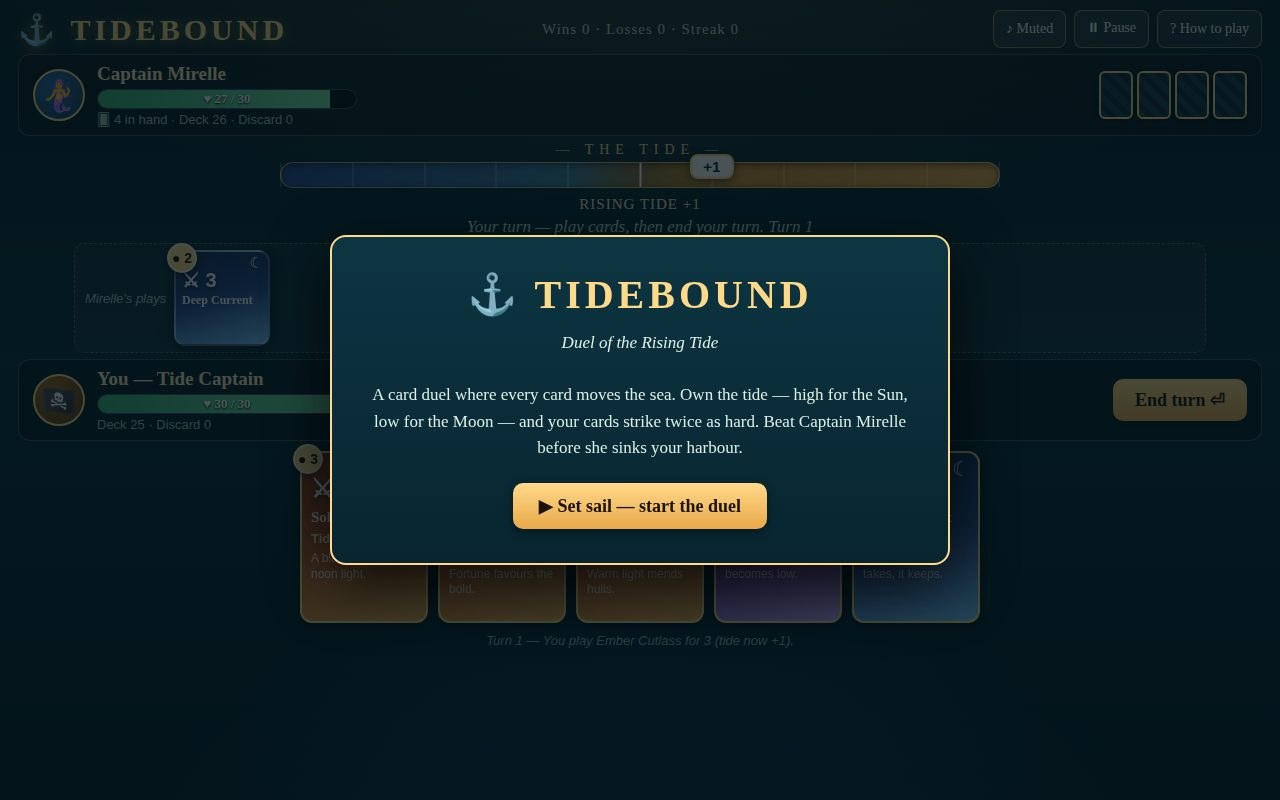
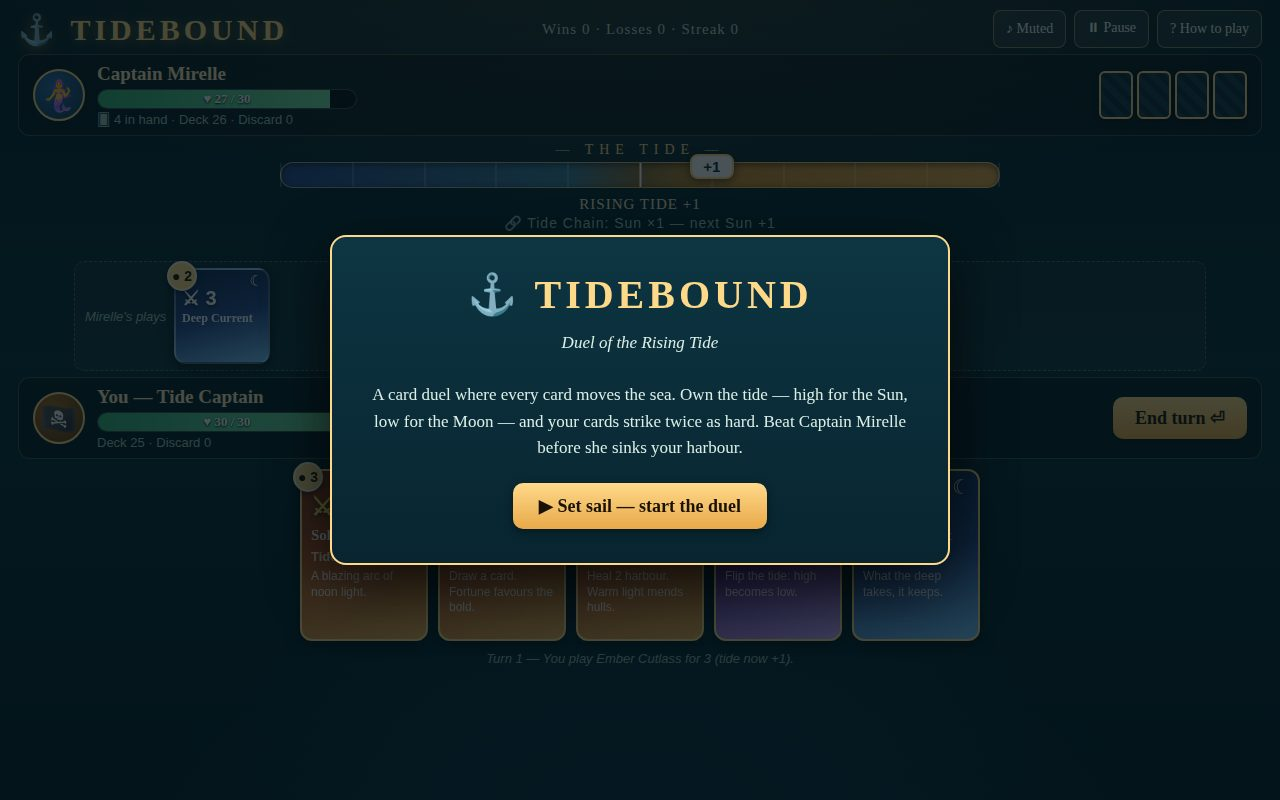
Tide Chain: consecutive same-element plays build momentum (+1/link, max +2)
Calibrated vs rival Ember Court (Favour/suits not copied): our depth
answer is tide-native — chains stack with the tide bonus, the AI scores
them, the table shows the live chain and every hand card previews its
chained power. Played cards now show the power they actually struck
with. Self-play check raised to 40 full games (was 30).

diff --git a/game/src/view.js b/game/src/view.js
@@ -8,7 +8,7 @@
 // in a deep-sea palette with gold trim and a tide gauge you can read
 // from across the room.
 
-import { cardDef, effectivePower } from './cards.js';
+import { cardDef, effectivePower, ELEMENTS } from './cards.js';
 import { tideLabel } from './tide.js';
 import { snapshot } from './engine.js';
 import { sfx, setMuted, isMuted } from './audio.js';
@@ -29,10 +29,13 @@ function tideArrow(push) {
 }
 
 // One card face. `playable` marks cards the player may click right now;
-// `spotlight` is the staged-screenshot highlight.
-export function cardNode(id, tide, { playable = false, spotlight = false, small = false } = {}) {
+// `spotlight` is the staged-screenshot highlight. `powerOverride` shows
+// the power a played card actually struck with (tide + chain at the
+// moment it was played); otherwise the power is the live value on the
+// current tide and chain, so the hand previews what a card would hit for.
+export function cardNode(id, tide, { playable = false, spotlight = false, small = false, powerOverride = null, chain = null } = {}) {
   const def = cardDef(id);
-  const power = effectivePower(def, tide);
+  const power = powerOverride !== null ? powerOverride : effectivePower(def, tide, chain);
   const boosted = power > def.power;
   const card = el('div', `card el-${def.element}${playable ? ' playable' : ''}${spotlight ? ' spotlight' : ''}${small ? ' small' : ''}`);
   card.dataset.cardId = id;
@@ -118,6 +121,8 @@ export class View {
     gauge.appendChild(this.gaugeBar);
     this.gaugeLabel = el('div', 'gauge-label', '');
     gauge.appendChild(this.gaugeLabel);
+    this.chainNode = el('div', 'chain-line', '');
+    gauge.appendChild(this.chainNode);
     middle.appendChild(gauge);
 
     this.banner = el('div', 'banner', '');
@@ -188,6 +193,12 @@ export class View {
     this.gaugeMarker.style.left = `${pct}%`;
     this.gaugeMarker.textContent = snap.tide >= 0 ? `+${snap.tide}` : `${snap.tide}`;
     this.gaugeLabel.textContent = tideLabel(snap.tide);
+    if (snap.chain && snap.chain.count > 0) {
+      const label = ELEMENTS[snap.chain.element].label;
+      this.chainNode.textContent = `🔗 Tide Chain: ${label} ×${snap.chain.count} — next ${label} +${Math.min(snap.chain.count, 2)}`;
+    } else {
+      this.chainNode.textContent = '🔗 Tide Chain: — play two of one element in a row to build it';
+    }
 
     // Banner
     if (snap.phase === 'over') {
@@ -201,7 +212,7 @@ export class View {
     // Played cards
     const fillPlayed = (node, plays) => {
       node.querySelectorAll('.card').forEach((c) => c.remove());
-      for (const p of plays) node.appendChild(cardNode(p.id, snap.tide, { small: true }));
+      for (const p of plays) node.appendChild(cardNode(p.id, snap.tide, { small: true, powerOverride: p.power }));
       if (plays.length === 0) node.appendChild(el('div', 'played-empty', '—'));
     };
     fillPlayed(this.playedAi, snap.table.ai);
@@ -219,7 +230,7 @@ export class View {
     snap.you.hand.forEach((id, i) => {
       const def = cardDef(id);
       const playable = snap.phase === 'play' && snap.active === 'you' && snap.you.shells >= def.cost;
-      const node = cardNode(id, snap.tide, { playable, spotlight: this.spotlightId === id });
+      const node = cardNode(id, snap.tide, { playable, spotlight: this.spotlightId === id, chain: snap.chain });
       node.addEventListener('click', () => this.cb.onPlay(i));
       this.handNode.appendChild(node);
     });
@@ -260,6 +271,9 @@ export class View {
             + '<b>The tide is everything.</b> Every card moves the shared tide (−5 to +5). '
             + 'At <b>high tide (+3 or more)</b> Sun cards strike +2; at <b>low tide (−3 or less)</b> Moon cards strike +2. '
             + 'Play to own the tide, not just to hit hard.<br><br>'
+            + '<b>Tide Chain:</b> playing cards of the same element one after another builds momentum — '
+            + 'the next card of that element strikes +1 per card already in the chain, up to +2. '
+            + 'A chain stacks with the tide bonus, so a well-sequenced hand hits far harder than its cards alone.<br><br>'
             + 'Each turn: draw 1, gain 3 shells ● (max 10), play as many cards as you can afford, then end your turn. '
             + 'Storm cards bend the tide itself — flip it, still it, or surge it to an extreme.<br><br>'
             + 'First harbour to 0 loses. Drawing from an empty deck costs 2 ♥.<br><br>'
@@ -324,6 +338,7 @@ export function stageShot(game, name) {
     g.table.ai = [{ id: 'deep-current', power: 3, tideAfter: 0 }];
     g.you.hand = ['solar-flare', 'sunken-gold', 'coral-spark', 'maelstrom', 'deep-current'];
     g.ai.hand = ['x', 'x', 'x', 'x'];
+    g.chain = { element: 'sun', count: 1 };
     g.log.push('Turn 1 — You play Ember Cutlass for 3 (tide now +1).');
     return g;
   }
@@ -335,11 +350,12 @@ export function stageShot(game, name) {
     g.ai.hp = 14;
     g.you.shells = 5;
     g.turn = 5;
-    g.table.you = [{ id: 'ember-cutlass', power: 3, tideAfter: 3 }, { id: 'sunken-gold', power: 2, tideAfter: 4 }];
+    g.table.you = [{ id: 'ember-cutlass', power: 5, tideAfter: 3 }, { id: 'sunken-gold', power: 5, tideAfter: 4 }];
     g.table.ai = [{ id: 'deep-current', power: 3, tideAfter: 2 }];
     g.you.hand = ['solar-flare', 'high-noon', 'coral-spark', 'maelstrom', 'deep-current'];
     g.ai.hand = ['x', 'x', 'x', 'x'];
-    g.log.push('Turn 5 — You play Sunken Gold for 4 (tide now +4).');
+    g.chain = { element: 'sun', count: 2 };
+    g.log.push('Turn 5 — You play Sunken Gold for 5 (chain +1) (tide now +4).');
     return g;
   }
   if (name === 'lowtide') {
@@ -349,11 +365,12 @@ export function stageShot(game, name) {
     g.ai.hp = 16;
     g.you.shells = 6;
     g.turn = 7;
-    g.table.you = [{ id: 'pearl-dive', power: 2, tideAfter: -3 }];
-    g.table.ai = [{ id: 'moonlit-tide', power: 7, tideAfter: -4 }, { id: 'eclipse', power: 8, tideAfter: -4 }];
+    g.table.you = [{ id: 'pearl-dive', power: 4, tideAfter: -3 }];
+    g.table.ai = [{ id: 'moonlit-tide', power: 7, tideAfter: -4 }, { id: 'eclipse', power: 9, tideAfter: -4 }];
     g.you.hand = ['eclipse', 'moonlit-tide', 'tidepool-lure', 'anchor-drop', 'storm-surge'];
     g.ai.hand = ['x', 'x', 'x', 'x', 'x'];
-    g.log.push('Turn 7 — Mirelle plays Eclipse for 8 (tide now -4).');
+    g.chain = { element: 'moon', count: 1 };
+    g.log.push('Turn 7 — Mirelle plays Eclipse for 9 (chain +1) (tide now -4).');
     return g;
   }
   if (name === 'victory') {
@@ -364,6 +381,7 @@ export function stageShot(game, name) {
     g.winner = 'you';
     g.table.you = [{ id: 'high-noon', power: 8, tideAfter: 5 }];
     g.table.ai = [];
+    g.chain = { element: 'sun', count: 1 };
     g.log.push('Turn 9 — You play High Noon for 8 (tide now +5).');
     g.log.push('Turn 9 — You rule the tide — victory!');
     return g;

diff --git a/game/src/engine.js b/game/src/engine.js
@@ -48,6 +48,7 @@ export function newGame(seed) {
     you: newPlayer(buildDeck(rand), START_HAND),
     ai: newPlayer(buildDeck(rand), START_HAND),
     table: { you: [], ai: [] }, // cards played this round, for the view
+    chain: { element: null, count: 0 }, // tide chain: consecutive same-element plays this turn
     stats: { cardsPlayed: 0, damageDealt: 0, turnsPlayed: 0 },
   };
   drawCards(game, game.you, START_HAND);
@@ -85,11 +86,12 @@ export function drawCards(game, player, n) {
   }
 }
 
-// Begin `who`'s turn: fresh shells, one draw, empty the table.
+// Begin `who`'s turn: fresh shells, one draw, empty the table and chain.
 export function startTurn(game, who) {
   const player = sideOf(game, who);
   game.active = who;
   game.table = { you: [], ai: [] };
+  game.chain = { element: null, count: 0 };
   player.shells = Math.min(MAX_SHELLS, player.shells + SHELLS_PER_TURN);
   drawCards(game, player, 1);
   game.stats.turnsPlayed += 1;
@@ -113,12 +115,19 @@ export function playCard(game, who, i) {
   const foe = sideOf(game, otherOf(who));
   const id = player.hand[i];
   const def = cardDef(id);
-  const power = effectivePower(def, game.tide);
+  // Power is read on the tide and chain as they stand before this play.
+  const power = effectivePower(def, game.tide, game.chain);
+  const chained = game.chain.element === def.element ? Math.min(game.chain.count, 2) : 0;
 
   player.shells -= def.cost;
   player.hand.splice(i, 1);
   player.discard.push(id);
   game.table[who].push({ id, power, tideAfter: null });
+
+  // The chain grows: same element as the last play extends it, anything
+  // else starts a fresh one.
+  if (game.chain.element === def.element) game.chain.count += 1;
+  else game.chain = { element: def.element, count: 1 };
 
   // The tide moves first: the bonus was read on the tide before the push.
   game.tide = applyTidePush(game.tide, def.tide);
@@ -130,7 +139,7 @@ export function playCard(game, who, i) {
   foe.hp -= power;
   game.stats.cardsPlayed += 1;
   if (who === 'you') game.stats.damageDealt += power;
-  say(game, `${who === 'you' ? 'You play' : 'Mirelle plays'} ${def.name} for ${power} (tide now ${game.tide >= 0 ? '+' : ''}${game.tide}).`);
+  say(game, `${who === 'you' ? 'You play' : 'Mirelle plays'} ${def.name} for ${power}${chained > 0 ? ` (chain +${chained})` : ''} (tide now ${game.tide >= 0 ? '+' : ''}${game.tide}).`);
 
   // Then its effect fires.
   if (def.effect === 'draw1') drawCards(game, player, 1);
@@ -191,6 +200,7 @@ export function snapshot(game) {
     you: { hp: game.you.hp, maxHp: game.you.maxHp, shells: game.you.shells, hand: game.you.hand.slice(), deck: game.you.deck.length, discard: game.you.discard.length },
     ai: { hp: game.ai.hp, maxHp: game.ai.maxHp, shells: game.ai.shells, hand: game.ai.hand.length, deck: game.ai.deck.length, discard: game.ai.discard.length },
     table: { you: game.table.you.slice(), ai: game.table.ai.slice() },
+    chain: { ...game.chain },
     stats: { ...game.stats },
   };
 }

diff --git a/game/src/ai.js b/game/src/ai.js
@@ -9,12 +9,16 @@
 import { cardDef, effectivePower } from './cards.js';
 import { favouredElement } from './tide.js';
 
-// Score one card in hand on the current tide. Higher is better.
+// Score one card in hand on the current tide and chain. Higher is better.
 export function scoreCard(game, who, index) {
   const player = who === 'you' ? game.you : game.ai;
   const def = cardDef(player.hand[index]);
-  const power = effectivePower(def, game.tide);
+  const power = effectivePower(def, game.tide, game.chain);
   let score = power * 2;
+
+  // Continuing the chain is worth extra: the bonus compounds, and a
+  // chain kept alive denies the other side a clean tide read.
+  if (game.chain.element === def.element) score += 1.5;
 
   // Tide positioning: pushing the tide toward an extreme you favour is
   // worth almost a hit; pushing it toward the enemy's extreme is costly.

diff --git a/game/src/cards.js b/game/src/cards.js
@@ -65,7 +65,16 @@ export function tideBonus(def, tide) {
   return 0;
 }
 
-// Effective power of a card on the current tide.
-export function effectivePower(def, tide) {
-  return def.power + tideBonus(def, tide);
+// The chain bonus: playing cards of the same element one after another
+// builds momentum — the next card of that element strikes +1 for each
+// card already in the chain, up to +2. `chain` is { element, count } or
+// null when no chain is running.
+export function chainBonus(def, chain) {
+  if (!chain || chain.element !== def.element) return 0;
+  return Math.min(chain.count, 2);
+}
+
+// Effective power of a card on the current tide and chain.
+export function effectivePower(def, tide, chain = null) {
+  return def.power + tideBonus(def, tide) + chainBonus(def, chain);
 }

diff --git a/game/css/table.css b/game/css/table.css
@@ -105,6 +105,7 @@ body[data-tide="low"] { background:
   font-family: 'Segoe UI', sans-serif;
 }
 .gauge-label { margin-top: 8px; font-size: 15px; letter-spacing: 1px; color: #ffe9bd; }
+.chain-line { margin-top: 2px; font-size: 14px; letter-spacing: 1px; color: #9fd8c9; font-family: 'Segoe UI', sans-serif; }
 .banner { text-align: center; font-size: 17px; font-style: italic; color: #cfe8de; min-height: 22px; }
 
 /* ---- played cards ---- */

diff --git a/README.md b/README.md
@@ -4,7 +4,7 @@
 [![rank](https://make.fun/badge/best-card-game-20261122-1826/masbagusyutl/best-card-game-entry/rank.svg)](https://make.fun/bounty/best-card-game-20261122-1826/leaderboard?utm_source=github&utm_medium=readme&utm_campaign=best-card-game-20261122-1826)
 [![reward](https://make.fun/badge/best-card-game-20261122-1826/masbagusyutl/best-card-game-entry/reward.svg)](https://make.fun/bounty/best-card-game-20261122-1826?utm_source=github&utm_medium=readme&utm_campaign=best-card-game-20261122-1826)
 
-Tidebound — Duel of the Rising Tide: a complete, original two-player card duel in the browser. Every card moves a shared tide; at high tide Sun cards strike +2, at low tide Moon cards strike +2, and Storm cards bend the tide itself. You duel Captain Mirelle, harbour against harbour, with a hand of readable cards, a visible tide gauge, and a win and a loss screen.
+Tidebound — Duel of the Rising Tide: a complete, original two-player card duel in the browser. Every card moves a shared tide; at high tide Sun cards strike +2, at low tide Moon cards strike +2, and Storm cards bend the tide itself. Cards of one element played in a row build a Tide Chain (+1 per link, up to +2). You duel Captain Mirelle, harbour against harbour, with a hand of readable cards, a visible tide gauge, and a win and a loss screen.
 
 ## Run it
 
@@ -23,6 +23,8 @@ Then open http://localhost:8080 in a desktop browser. No build step, no network 
 You duel **Captain Mirelle**, harbour against harbour (30 ♥ each). First harbour to 0 loses.
 
 **The tide is everything.** A shared tide gauge runs from −5 (low, moonlit) to +5 (high, sunlit). Every card moves it when played. At **high tide (+3 or more)** Sun cards strike +2; at **low tide (−3 or less)** Moon cards strike +2. Play to own the tide, not just to hit hard.
+
+**Tide Chain.** Cards of the same element played one after another in a turn build momentum: the next card of that element strikes +1 per card already in the chain, up to +2. The chain stacks with the tide bonus — a sequenced hand hits far harder than its cards alone — and any other element breaks it. The table shows the live chain under the gauge, and every card in hand previews the power it would strike for.
 
 **Each turn:** draw 1 card, gain 3 shells ● (max 10), play as many cards as you can afford, then end your turn. Drawing from an empty deck costs 2 ♥ (fatigue).
 
@@ -52,7 +54,7 @@ Elements are told apart by colour **and** shape (☀ / ☾ / ⛈ glyph on every 
 - `game/src/audio.js` — synthesised sound effects (WebAudio, no files)
 - `game/src/view.js` — DOM rendering, input, overlays, screenshot staging
 - `game/src/main.js` — boot, save/pause/keyboard, `?shot=` scenes
-- `tests/playthrough.mjs` — headless full-match playthrough: 30/30 matches end with a winner, 0 invariant failures, same seed replays identically
+- `tests/playthrough.mjs` — headless full-match playthrough: 40/40 matches end with a winner, 0 invariant failures, same seed replays identically, plus Tide Chain unit checks
 - `main.ts` — the hand-in program: copies `game/` + `screenshots/` to `/output` and writes `dossier.json`
 - `serve.ts` — local static server for play-testing
 - `shots.json` — the four screenshot scenes (`?shot=start|play|lowtide|victory`)
@@ -64,6 +66,6 @@ Four real renders of the game running in desktop Chrome, under `screenshots/`: t
 ## Checks
 
 ```sh
-node tests/playthrough.mjs   # 30 headless matches, invariants + determinism
+node tests/playthrough.mjs   # 40 headless matches, invariants + determinism + chain checks
 mkdir -p out && MAKEFUN_OUTPUT_DIR=out node main.ts   # hand-in program, run twice: same bytes
 ```
